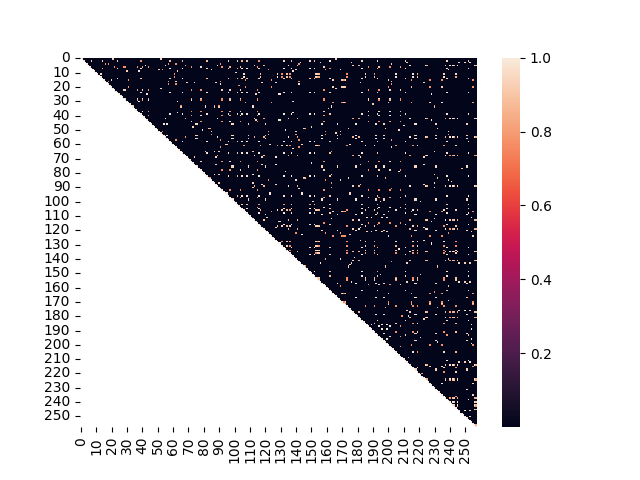
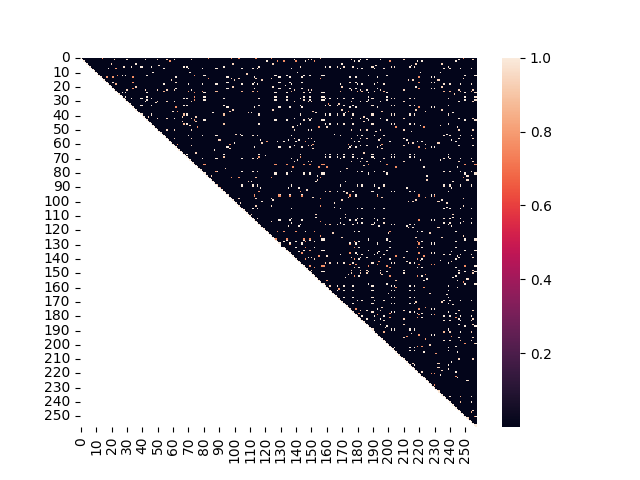
Fix variable-naming bug, upload fixed probability plots

diff --git a/scripts/inference.py b/scripts/inference.py
@@ -99,7 +99,6 @@ def run():
                 i, j = min(i, j), max(i, j)
                 cached_features.append((i, j, features))
                 table[i, j] = p
-            1/0
 
             # Disable triplet violation correction, prior estimation, and recalculation
             # Set tables and priors to unchanged values for consistency
@@ -112,7 +111,6 @@ def run():
                 p, r = infer_from_feature(features, interpolated, xi_ratios, new_prior)
                 assert r >= 0., f'Ratio {r} violates >0 constraint'
                 assert p >= 0. and p <= 1., f'Probability estimate {p} for features {features} violates probability laws, using ratio {r} and prior {match_prior}'
-                print(p, r)
                 new_table[i, j] = p
 
             print(group_id)
